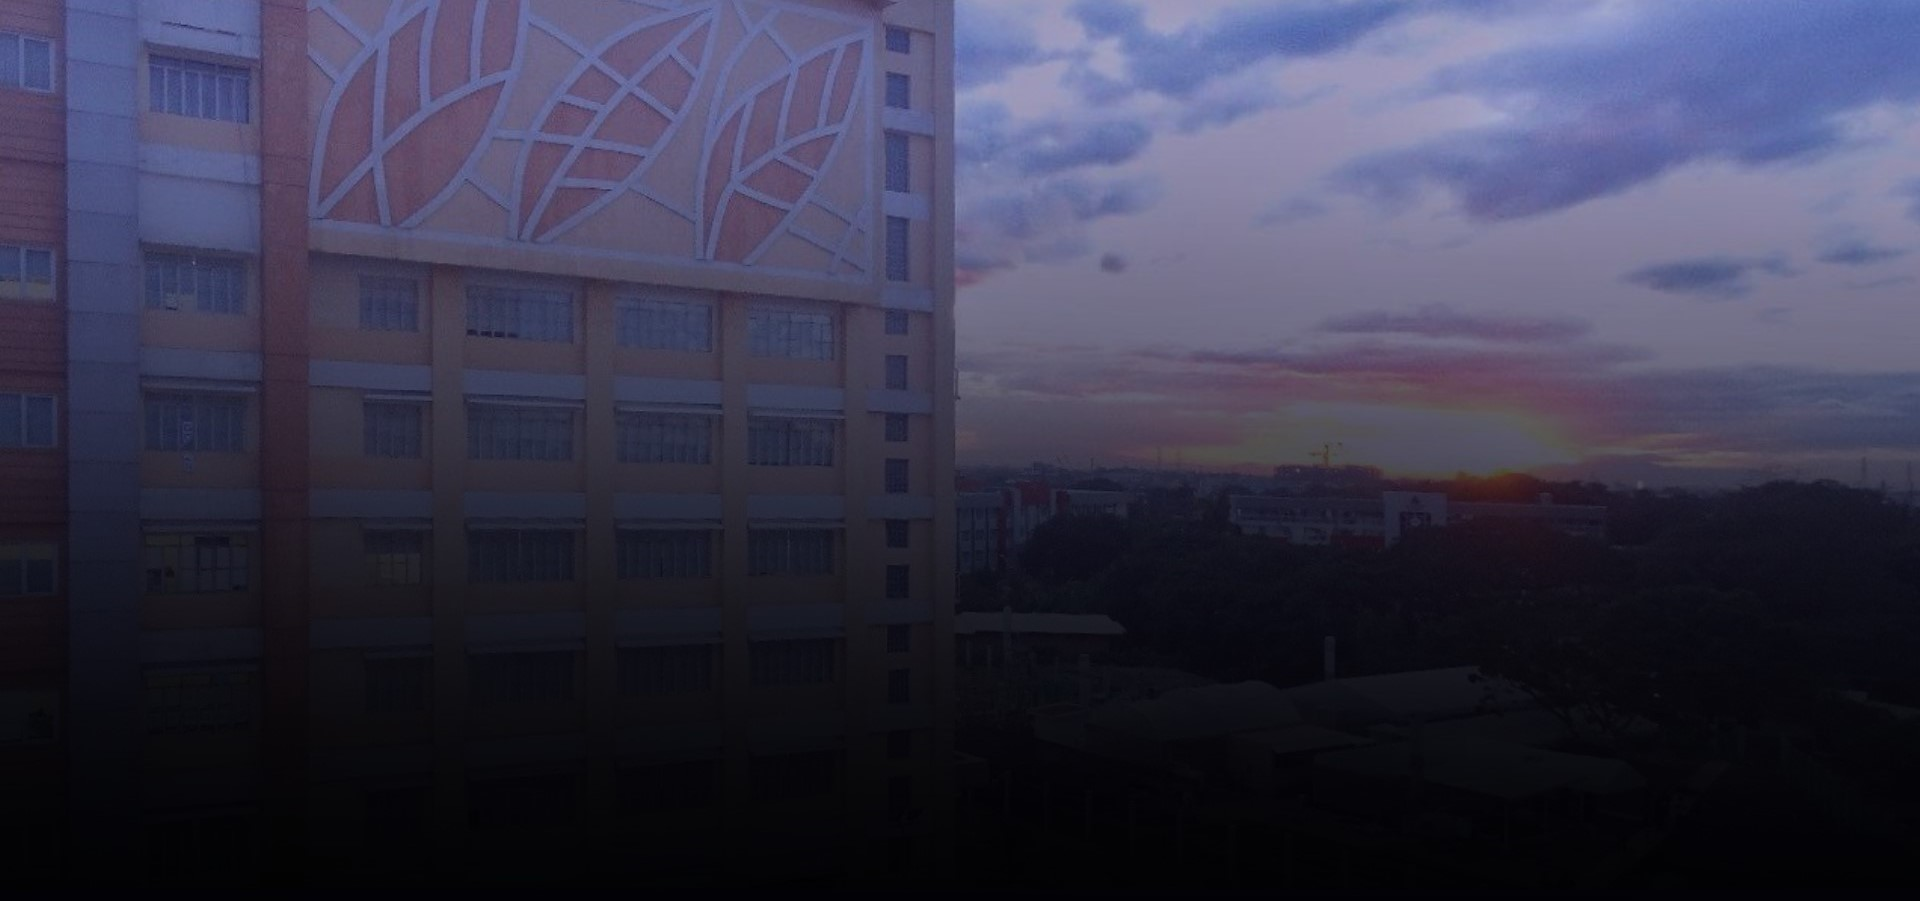
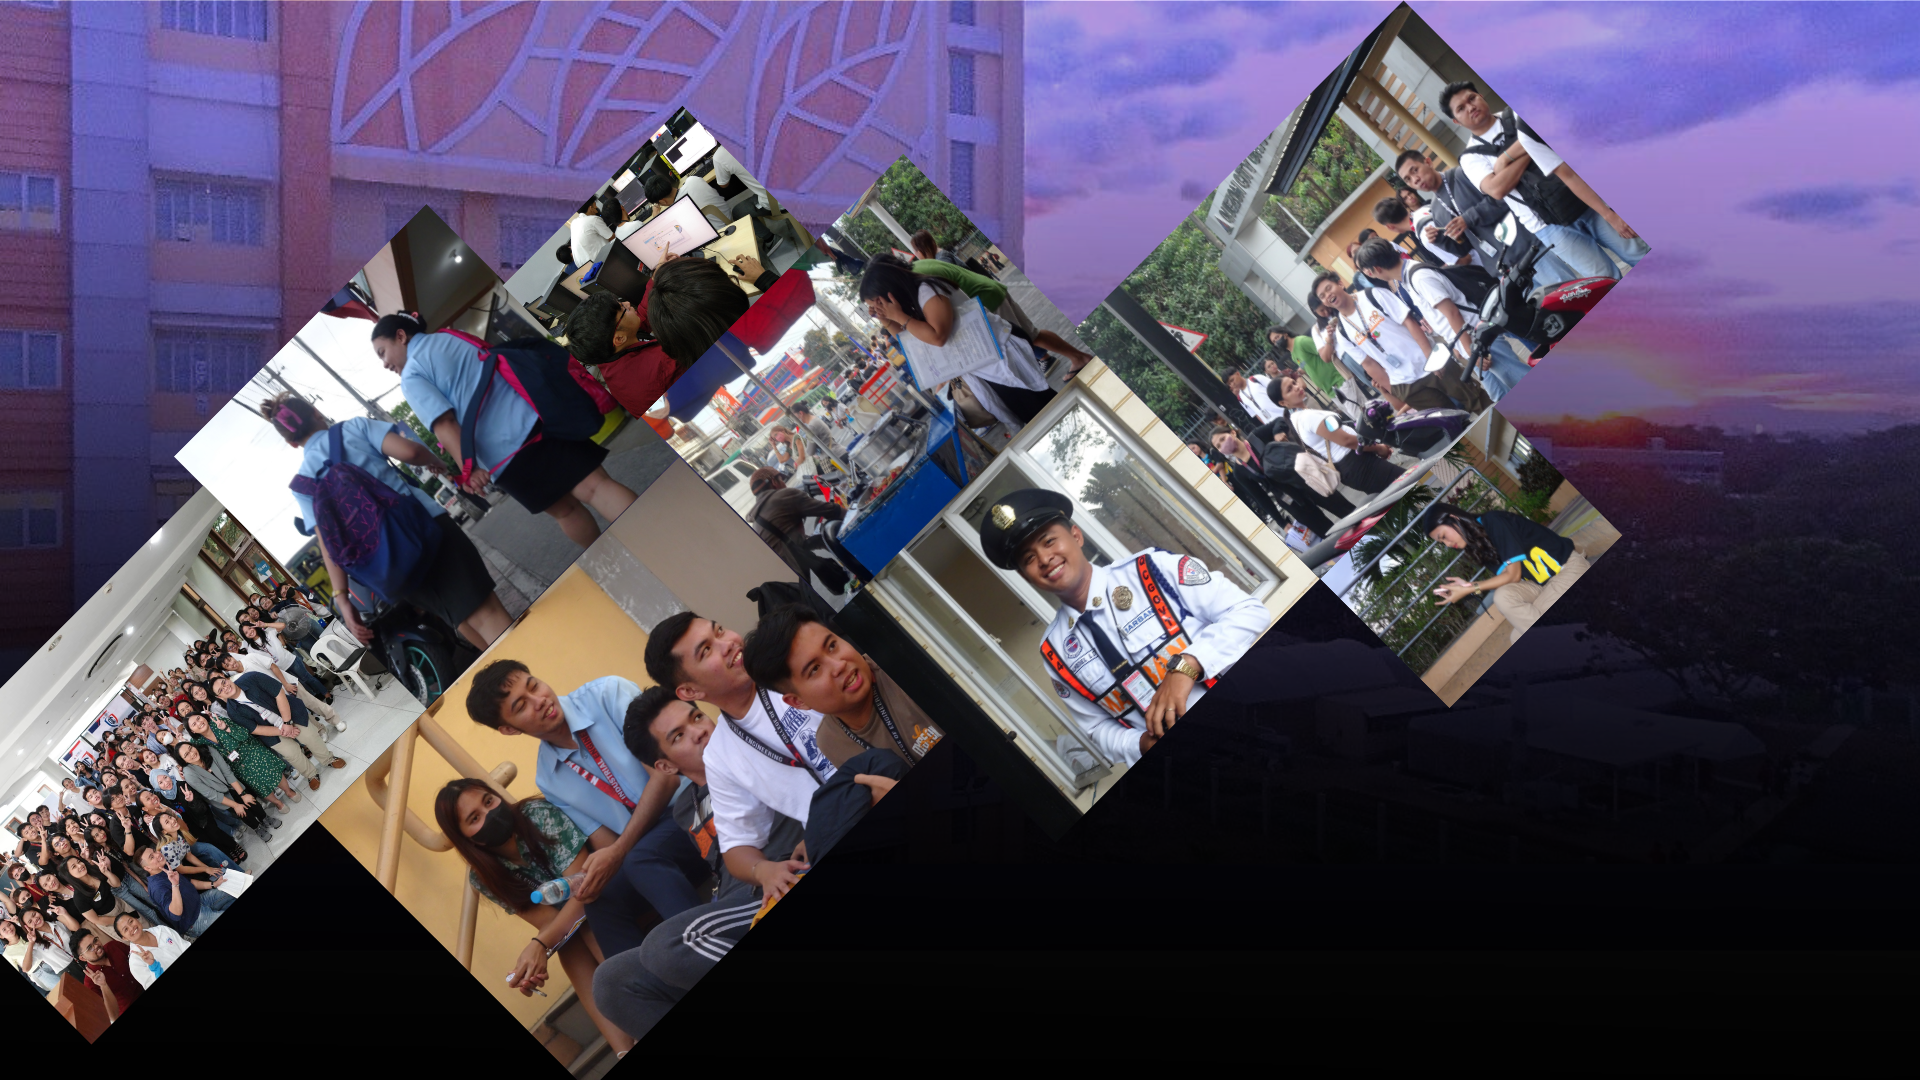
change homepage image

diff --git a/php/index.php b/php/index.php
@@ -21,7 +21,7 @@
 
         section:first-child {
             background-image: url(../images/campus.JPG);
-            background-size: 100% 100%;
+            background-size: cover;
             background-repeat: no-repeat;
         }
 
@@ -130,10 +130,11 @@
             }
         }
 
-        @media (min-width: 1200px) {
+        @media (min-width: 1000px) {
             section:first-child {
-                background-image: url(../images/QORA\ -\ HOMEPAGE.png), url(../images/campus.JPG);
-                background-size: 100% 100%, 100% 100%;
+                background-image: url(../images/campus.JPG);
+                background-size: 100% 100%;
+                background-repeat: no-repeat;
             }
         }
     </style>
